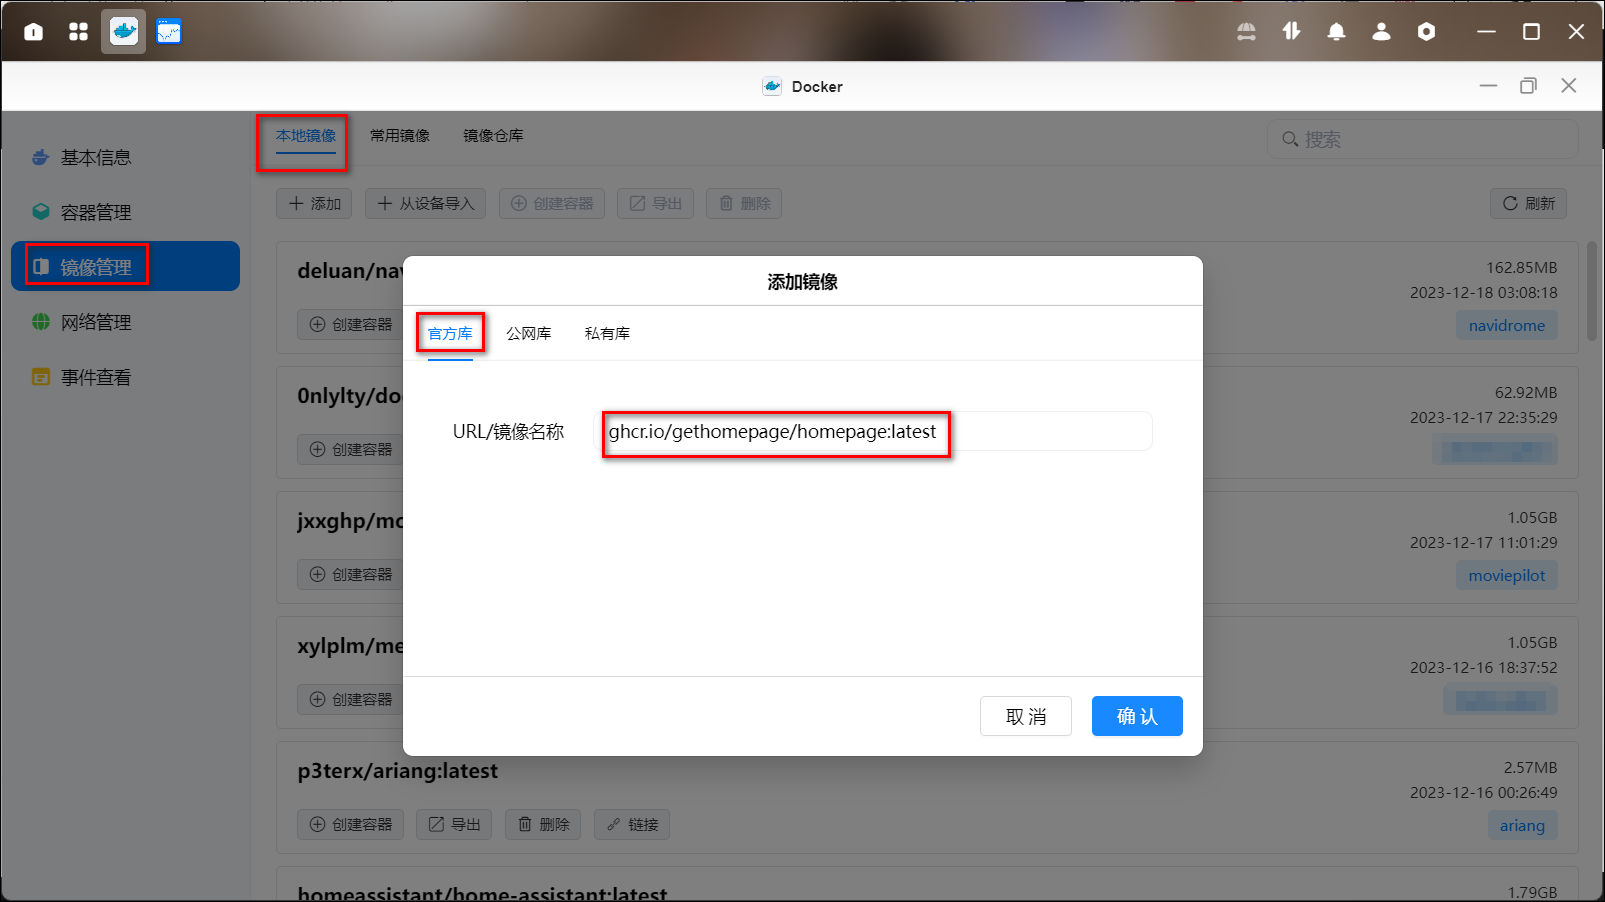
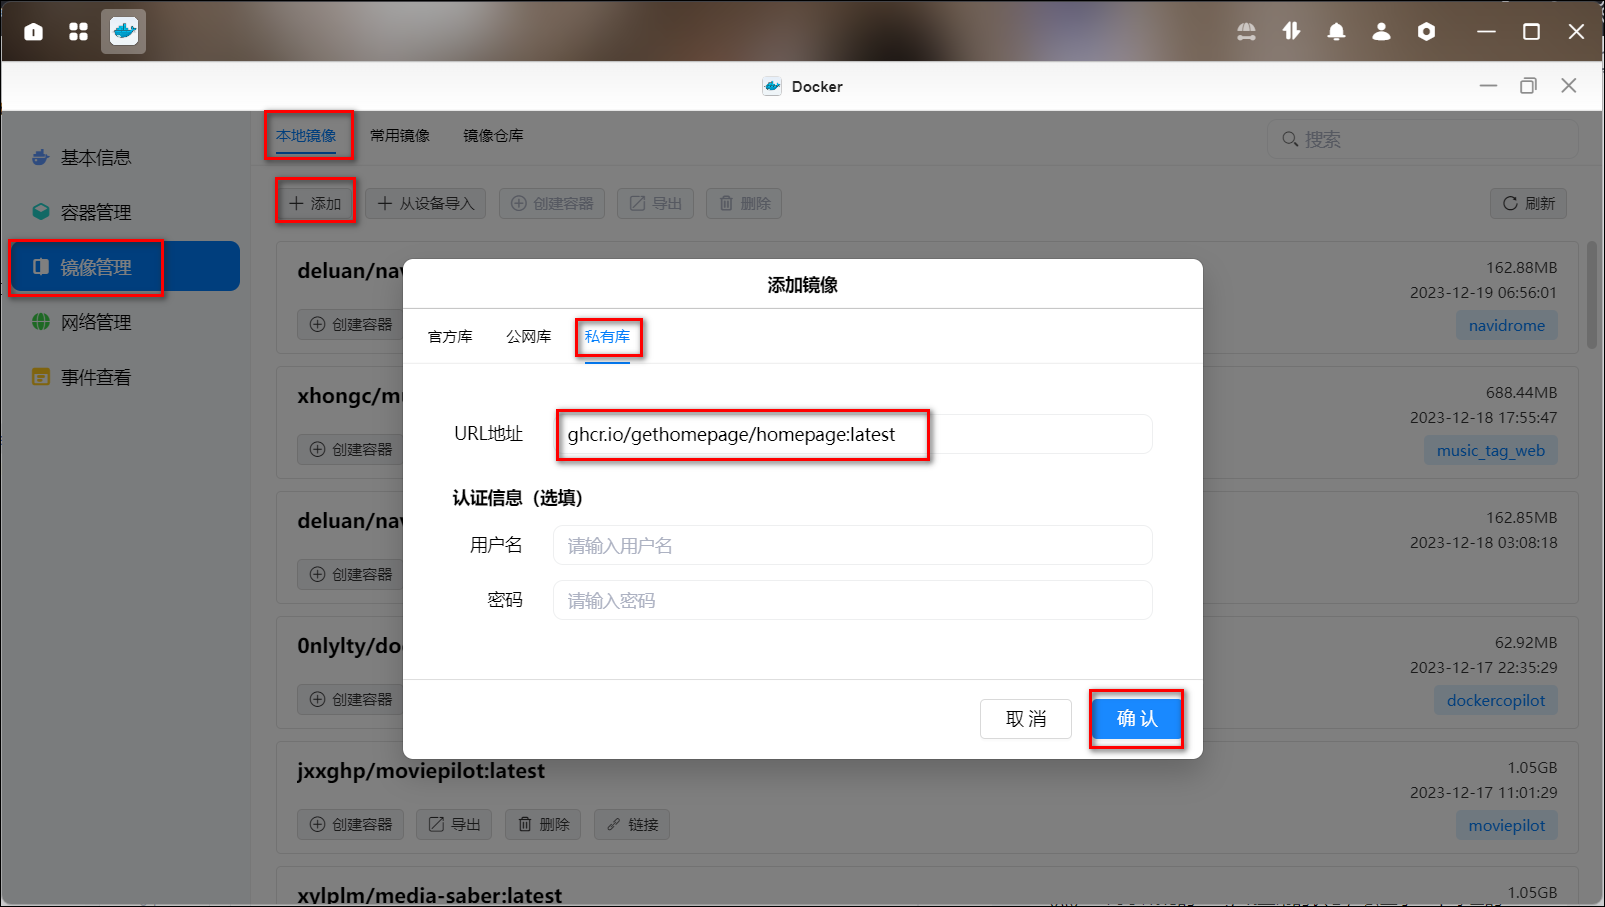
homepage修改

diff --git a/docs/02.工具/04.导航/01.homepage.md b/docs/02.工具/04.导航/01.homepage.md
@@ -12,10 +12,6 @@ tags:
 
 ### 下载容器
 
-从 v0.7.2 开始，homepage从 benphelps/homepage 迁移到位于 gethomepage/homepage 的存储库。
-
-所以安装URL由: ghcr.io/benphelps/homepage:latest 改成：ghcr.io/gethomepage/homepage:latest。
-
 进入docker，点击镜像管理-本地镜像-添加-私有库（注意是私有库，这个镜像未发布在Docker Hub），URL地址处输入：ghcr.io/gethomepage/homepage:latest，下载最新版镜像。
 
 ![img](./img/0101.png)
